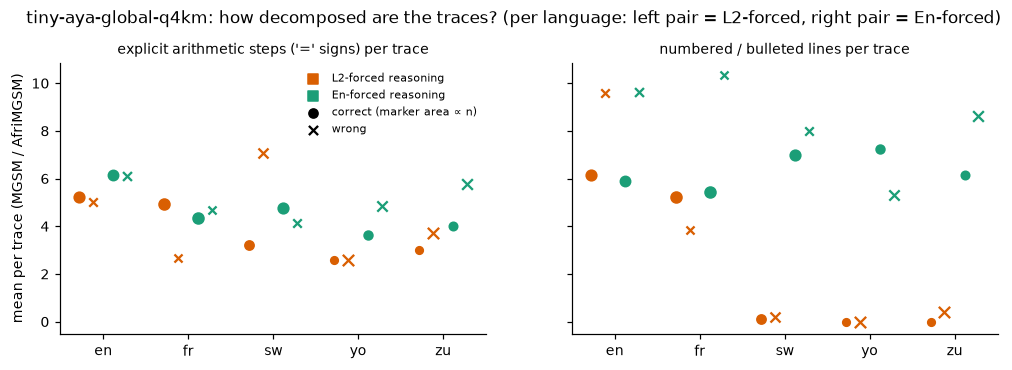
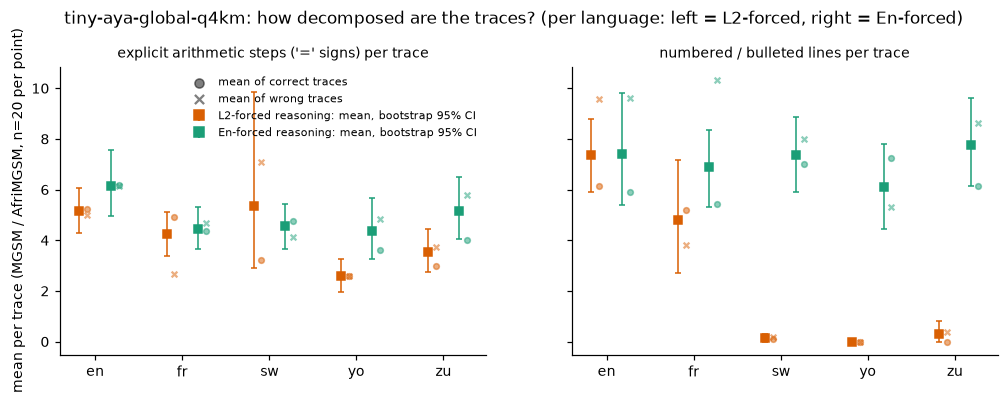
M2: code all 17 discordant low-resource math pairs as committed data; honest error analysis
- results/error_coding.csv: first error of the losing trace for all 13 en-only and 4 l2-only
  pairs, plus whether the winning trace was itself flawed (4/17), one-line note each
- probe/error_coding.py: checks the coding covers exactly paired.json's discordant ids,
  summarizes causes, and bootstraps per-language structure metrics
- README section 4 rewritten: counts instead of 'dominant', all items listed (no picking),
  Swahili '=' counter-result (5.3 vs 4.5, doomloop-driven), corrected 012-yo account,
  prose/list + opener confound stated here and in Limitations
- reasoning_structure figure: per-language means with bootstrap 95% CIs (part of m7)

diff --git a/probe/figures.py b/probe/figures.py
@@ -18,7 +18,7 @@ import matplotlib.pyplot as plt  # noqa: E402
 import numpy as np  # noqa: E402
 
 from probe.langs import LANGS  # noqa: E402
-from probe.stats import avg_rank, sig3  # noqa: E402
+from probe.stats import avg_rank, bootstrap_mean, sig3  # noqa: E402
 
 plt.rcParams.update({"font.size": 9, "axes.spines.top": False, "axes.spines.right": False,
                      "svg.hashsalt": "aya", "figure.dpi": 110})
@@ -295,28 +295,34 @@ def fig_trace_lid(rows, model, out):
 
 
 def fig_structure(rows, model, out):
-    """Error-analysis view: explicit arithmetic steps ('=' count) per math trace, by language and arm,
-    split by whether the answer was right."""
+    """Error-analysis view: explicit arithmetic steps ('=' count) and list lines per math trace, by language
+    and arm: mean with bootstrap 95% CI (all 20 traces), plus faded markers for the correct / wrong subsets."""
     langs = LANG_ORDER["math"]
-    fig, axes = plt.subplots(1, 2, figsize=(11, 3.2), sharey=True)
+    fig, axes = plt.subplots(1, 2, figsize=(11, 3.4), sharey=True)
     for ax, (key, title) in zip(axes, [("eq_steps", "explicit arithmetic steps ('=' signs) per trace"),
                                        ("list_lines", "numbered / bulleted lines per trace")]):
         for j, arm in enumerate(["l2", "en"]):
             for i, l in enumerate(langs):
-                for c, mk, dx in [("1", "o", -0.08), ("0", "x", 0.08)]:
-                    v = [float(r[key]) for r in rows if r["model"] == model and r["arm"] == arm and r["task"] == "math"
-                         and r["lang"] == l and r["correct"] == c]
-                    if v:
-                        ax.scatter([i + (j - 0.5) * 0.4 + dx], [np.mean(v)], marker=mk, c=ARM_COL[arm], s=10 + 3 * len(v))
+                sel = [r for r in rows if r["model"] == model and r["arm"] == arm and r["task"] == "math" and r["lang"] == l]
+                v = [float(r[key]) for r in sel]
+                if not v:
+                    continue
+                m, lo, hi = bootstrap_mean(v, iters=4000, seed=20261022)
+                x = i + (j - 0.5) * 0.36
+                ax.errorbar([x], [m], yerr=nonneg([[m - lo], [hi - m]]), fmt="s", ms=5, c=ARM_COL[arm], capsize=2, lw=1)
+                for c, mk, dx in [("1", "o", 0.09), ("0", "x", 0.09)]:
+                    vc = [float(r[key]) for r in sel if r["correct"] == c]
+                    if vc:
+                        ax.scatter([x + dx], [np.mean(vc)], marker=mk, c=ARM_COL[arm], s=14, alpha=0.5)
         ax.set_xticks(range(len(langs)), langs)
         ax.set_title(title, fontsize=9)
-    axes[0].set_ylabel("mean per trace (MGSM / AfriMGSM)")
+    axes[0].set_ylabel("mean per trace (MGSM / AfriMGSM, n=20 per point)")
     for arm in ["l2", "en"]:
-        axes[0].scatter([], [], c=ARM_COL[arm], marker="s", label=ARM_NAME[arm])
-    axes[0].scatter([], [], c="k", marker="o", label="correct (marker area ∝ n)")
-    axes[0].scatter([], [], c="k", marker="x", label="wrong")
+        axes[0].errorbar([], [], yerr=[], fmt="s", c=ARM_COL[arm], label=f"{ARM_NAME[arm]}: mean, bootstrap 95% CI")
+    axes[0].scatter([], [], c="k", marker="o", alpha=0.5, label="mean of correct traces")
+    axes[0].scatter([], [], c="k", marker="x", alpha=0.5, label="mean of wrong traces")
     axes[0].legend(fontsize=7, frameon=False)
-    fig.suptitle(f"{model}: how decomposed are the traces? (per language: left pair = L2-forced, right pair = En-forced)", y=1.03)
+    fig.suptitle(f"{model}: how decomposed are the traces? (per language: left = L2-forced, right = En-forced)", y=1.03)
     save(fig, out, "reasoning_structure.png")
 
 

diff --git a/probe/error_coding.py b/probe/error_coding.py
@@ -1,0 +1,56 @@
+"""Summarize the hand coding of every discordant low-resource math pair (results/error_coding.csv)
+and the per-language structure metrics with bootstrap CIs (M2, m7). Writes results/error_coding_summary.json.
+
+Coding protocol (one coder, the author, after seeing which arm was right; not blinded):
+- loser_cause = the first error in the losing trace that, by itself, makes the final answer wrong:
+  condition_dropped (a stated quantity or constraint is never used), wrong_operation (right
+  quantities, wrong arithmetic operation or sign), wrong_setup (a different problem is solved,
+  e.g. summing two options instead of choosing), doomloop_cap (repetition until the token cap),
+  arithmetic_error, misread_quantity.
+- winner_reasoning_flawed = 1 if the winning trace reaches gold through a visibly wrong step.
+"""
+import argparse
+import csv
+import json
+from collections import Counter
+
+from probe.stats import bootstrap_mean
+
+
+def main():
+    ap = argparse.ArgumentParser()
+    ap.add_argument("--coding", default="results/error_coding.csv")
+    ap.add_argument("--per-trace", default="results/per_trace.csv")
+    ap.add_argument("--paired", default="results/paired.json")
+    ap.add_argument("--model", default="tiny-aya-global-q4km")
+    ap.add_argument("--out", default="results/error_coding_summary.json")
+    a = ap.parse_args()
+    code = list(csv.DictReader(open(a.coding, encoding="utf-8")))
+    pair = json.load(open(a.paired))[f"{a.model}|l2-en|math|group:low"]
+    want = {("en_only", i) for i in pair["b_only_ids"]} | {("l2_only", i) for i in pair["a_only_ids"]}
+    have = {(r["discordant_side"], r["id"]) for r in code}
+    assert want == have, f"coding does not match paired.json: missing {want - have}, extra {have - want}"
+    out = {"n_coded": len(code)}
+    for side in ["en_only", "l2_only"]:
+        rs = [r for r in code if r["discordant_side"] == side]
+        out[side] = {"n": len(rs), "loser_cause": dict(sorted(Counter(r["loser_cause"] for r in rs).items())),
+                     "winner_reasoning_flawed": sum(int(r["winner_reasoning_flawed"]) for r in rs)}
+    rows = [r for r in csv.DictReader(open(a.per_trace, encoding="utf-8"))
+            if r["model"] == a.model and r["task"] == "math" and r["arm"] in ("l2", "en")]
+    struct = {}
+    for lang in ["en", "fr", "sw", "yo", "zu"]:
+        for arm in ["l2", "en"]:
+            rs = [r for r in rows if r["lang"] == lang and r["arm"] == arm]
+            for m in ["eq_steps", "list_lines"]:
+                v = [float(r[m]) for r in rs]
+                mean, lo, hi = bootstrap_mean(v, iters=4000, seed=20261022)
+                struct[f"{lang}|{arm}|{m}"] = {"n": len(v), "mean": round(mean, 3), "ci": [round(lo, 3), round(hi, 3)]}
+    out["structure_math"] = struct
+    json.dump(out, open(a.out, "w"), indent=1, sort_keys=True)
+    print(json.dumps({k: v for k, v in out.items() if k != "structure_math"}, indent=1))
+    for k, v in struct.items():
+        print(k, v)
+
+
+if __name__ == "__main__":
+    main()

diff --git a/README.md b/README.md
@@ -106,19 +106,34 @@ The manipulation worked: the L2-forced arm reasons in the prompt language for ne
 
 Traces are short for both arms: median 148 generated tokens, 5th–95th percentile 69–294, across all 440 reasoning traces. Only 3 of the 440 hit the 512-token cap. Repetition and length are positively correlated (Spearman ρ = 0.49 for L2-forced and 0.53 for En-forced, n = 220 each, tied values given average ranks; shown on the plot), which matches the blog's observation in miniature. At this scale, though, doomlooping is a handful of traces, not a regime. Forcing in-language reasoning does **not** make this model think longer.
 
-### 4. Error analysis: why does L2 reasoning lose on low-resource math?
+### 4. Error analysis of the low-resource math discordant pairs (exploratory)
 
-![Two-panel dot plot for MGSM/AfriMGSM. Mean explicit arithmetic steps (count of '=' signs) and mean numbered or bulleted lines per trace, by language and arm, split into correct (dots) and wrong (crosses) traces. In Swahili, Yoruba and Zulu, L2-forced traces have almost no list structure, while En-forced traces have 6–8 list lines.](docs/figures/reasoning_structure.png)
+![Two-panel dot plot for MGSM/AfriMGSM. Mean explicit arithmetic steps (count of '=' signs) and mean numbered or bulleted lines per trace, by language and arm, with bootstrap 95% intervals. In Swahili, Yoruba and Zulu, L2-forced traces have almost no list structure, while En-forced traces have 6–8 list lines. Arithmetic-step counts do not separate the arms consistently: Swahili L2 traces have more '=' signs than En traces, Yoruba and Zulu fewer.](docs/figures/reasoning_structure.png)
 
-*Data: [`results/per_trace.csv`](results/per_trace.csv) (`eq_steps`, `list_lines`) and the table in [`docs/results.md`](docs/results.md#trace-structure-error-analysis-math) · script: [`probe/metrics.py`](probe/metrics.py) (`structure`), [`probe/figures.py`](probe/figures.py) (`fig_structure`).*
+*Data: [`results/per_trace.csv`](results/per_trace.csv) (`eq_steps`, `list_lines`) and [`results/error_coding_summary.json`](results/error_coding_summary.json) (`structure_math`) · script: [`probe/metrics.py`](probe/metrics.py) (`structure`), [`probe/error_coding.py`](probe/error_coding.py), [`probe/figures.py`](probe/figures.py) (`fig_structure`).*
 
-The two arms write in different *styles*, not only different languages. En-forced traces on low-resource prompts are enumerated, step-by-step derivations (6–8 list lines per trace). L2-forced Swahili, Yoruba and Zulu traces are a single prose paragraph (≈0 list lines), and Yoruba and Zulu L2 traces also contain fewer explicit arithmetic steps on average (2.6 vs 4.3 and 3.5 vs 5.2 `=` signs per trace). Reading the discordant items, the dominant L2 failure is **dropping a condition of the problem**, not arithmetic error:
+**Coding of all 17 discordant pairs.** Of the 60 low-resource math pairs, 13 were right only under En-forcing and 4 only under L2-forcing. I read every one of these 34 traces and coded the first error in the losing trace that alone makes its answer wrong. The raw coding, with a one-line justification per item, is committed as data: [`results/error_coding.csv`](results/error_coding.csv), summarized by [`probe/error_coding.py`](probe/error_coding.py) into [`results/error_coding_summary.json`](results/error_coding_summary.json). One coder (me) did the coding after seeing which arm was right, so it was not blinded and has no inter-rater check.
 
-- **`mgsm-058-sw` (gold 57):** the L2 trace adds the $3 fee and $4 tip but never applies the 25% charge (→ 47). The En trace lists it as its own step (→ 57).
-- **`mgsm-012-yo` (gold 13):** the L2 trace ignores the $90 planting cost and divides revenue by upkeep (→ 4). The En trace includes it (→ 12.2, rounded up to 13).
-- **`mgsm-015-sw` (gold 125):** both arms compute $125 and $96 correctly, but the L2 trace then subtracts the principal and picks the wrong option (→ −7904).
+| losing trace's first error | L2 lost (13 en-only pairs) | En lost (4 l2-only pairs) |
+|---|---:|---:|
+| dropped a stated condition or quantity | 4 (058-sw, 090-sw, 012-yo, 210-yo) | 2 (049-yo, 241-sw) |
+| wrong operation or sign on the right quantities | 4 (050-yo, 058-zu, 060-zu, 090-zu) | 1 (148-zu) |
+| solved a different problem (wrong setup) | 4 (000-zu, 015-sw, 015-yo, 060-sw) | 1 (210-zu) |
+| doomloop until the 512-token cap | 1 (174-sw) | 0 |
+| **winning trace itself reached gold through a visibly wrong step** | 3 (000-zu, 012-yo, 210-yo) | 1 (241-sw) |
 
-This is consistent with forcing in a low-resource language pushing the model away from the structured English-style derivations it was presumably trained on most. The structure gap is measured; the causal story is a hypothesis. Within an arm, list structure does not cleanly separate right from wrong answers. Annotated traces, chosen by fixed rules rather than hand-picked: [`docs/examples.md`](docs/examples.md).
+No single cause dominates. L2 losses split evenly across dropped conditions, wrong operations and wrong setups, and En losses are the same kinds of error. Four of the 17 "wins" are themselves flawed. For example, in `mgsm-012-yo` (gold 13) the L2 trace ignores the $90 planting cost and divides revenue by upkeep (→ 4). The En trace does use the cost, but it computes 90 / 7.5 as "12.2" (it is exactly 12) and then rounds up, so its 13 comes from wrong arithmetic plus rounding. In `mgsm-210-yo` the En trace reaches 10 as $50 / $5, which drops both the savings and the mowing rate. Per-item notes are in the CSV; no item was selected for this section, because all 17 are listed.
+
+**Structure.** The two arms also write in different *styles*. En-forced traces on low-resource prompts are enumerated derivations (6.1–7.8 list lines per trace), while L2-forced Swahili, Yoruba and Zulu traces are one prose paragraph (0–0.3 list lines). Explicit arithmetic steps (`=` signs per trace, mean [bootstrap 95% CI], n = 20 each) do **not** move consistently with the arm:
+
+| math, `=` per trace | en | fr | sw | yo | zu |
+|---|---|---|---|---|---|
+| L2-forced | 5.2 [4.3, 6.1] | 4.3 [3.4, 5.1] | **5.3 [2.9, 9.9]** | 2.6 [2.0, 3.3] | 3.6 [2.8, 4.5] |
+| En-forced | 6.2 [5.0, 7.6] | 4.5 [3.7, 5.3] | 4.5 [3.7, 5.5] | 4.3 [3.3, 5.7] | 5.2 [4.1, 6.5] |
+
+Swahili, the language with the largest accuracy drop (−20 pp), runs the *other* way: L2 traces have more `=` steps than En traces. That mean is driven by the one doomloop trace (174-sw, 45 `=` signs); without it the Swahili L2 mean is 3.3 vs 4.5, and the medians are 3 vs 4. Fewer explicit steps therefore cannot be the general explanation, and I do not offer one.
+
+**Confounds.** List structure is almost perfectly collinear with arm × language here: prose appears only in L2-forced low-resource traces, which are also the only traces in Swahili, Yoruba or Zulu. The En arm's prefill (`Step-by-Step Answer:`) invites a numbered list, while the L2 openers are prose sentences. The data therefore cannot separate "reasoning in L2", "reasoning in prose" and "a different opener". Telling them apart would need an L2-forced arm with an in-language "use a numbered list" instruction, which was not run. Annotated traces chosen by the fixed rules in [`probe/examples.py`](probe/examples.py) are in [`docs/examples.md`](docs/examples.md).
 
 ![Horizontal strips, one per rule-selected example trace, with each sentence coloured by its GlotLID language. L2-forced traces are a single colour in the prompt language; En-forced traces are English with small segments of quoted prompt text.](docs/figures/example_trace_strips.png)
 
@@ -211,7 +226,8 @@ Holm / BH adjust the cluster sign-flip p over the family of **17 distinct** l2-v
 ## Limitations
 
 - **Not the Thinkers.** Every number is for Tiny Aya Global Q4_K_M under prompt and prefill forcing, which is the *inference-time forcing baseline* the blog argues is inferior to training. The study says nothing direct about L2-Thinker's or En-Thinker's accuracy. It shows what the untrained-for-L2 base family does when pushed, which is the gap the Thinkers are meant to close. [`scripts/run_thinkers.sh`](scripts/run_thinkers.sh) is the drop-in path; it is untested.
-- **Small n.** There are 20 items per cell (40 per language across tasks). Only the pooled low-resource math effect has an interval that excludes 0, and it only just does so. Treat the per-language bars as descriptive.
+- **Small n, exploratory.** There are 20 items per cell (40 per language across tasks), and no comparison was pre-registered. Only the pooled low-resource math difference has a percentile-bootstrap interval that excludes 0, and only just. Its primary cluster test is p = 0.0938 (Holm-adjusted 1.00 over 17 tests), so nothing here is significant. Treat the per-language bars as descriptive. More low-resource math items would be the cheapest way to sharpen this; none were added in this round because the shared box is busy.
+- **Reasoning language is confounded with style and opener.** In the low-resource cells, L2-forcing changes three things at once: the language of the trace, its form (prose instead of a numbered list), and the prefilled opener (an in-language sentence instead of `Step-by-Step Answer:`). These are collinear in this design, so any accuracy gap cannot be attributed to language alone (see §4).
 - **Q4_K_M and greedy decoding.** Quantization can hurt low-resource languages more than English, and the model card recommends temperature 0.6. Both choices are fixed across arms, so the *comparison* is fair, but absolute accuracies are likely below what bf16 with sampling would give.
 - **Canadian French.** fr-CA appears only in Global PIQA; MGSM has no fr-CA split. LID cannot separate fr-CA from fr-FR, and the fr-CA prompts used the France-French MGSM opener ("Réponse étape par étape :").
 - **Zulu opener** was written by the author and is not native-checked. **Answer parsing:** lenient parsing (last number or option letter) is the primary metric; strict `####`-only accuracy and format-compliance rates are in [`results/summary.json`](results/summary.json) (`acc_strict`, `format_rate`).
